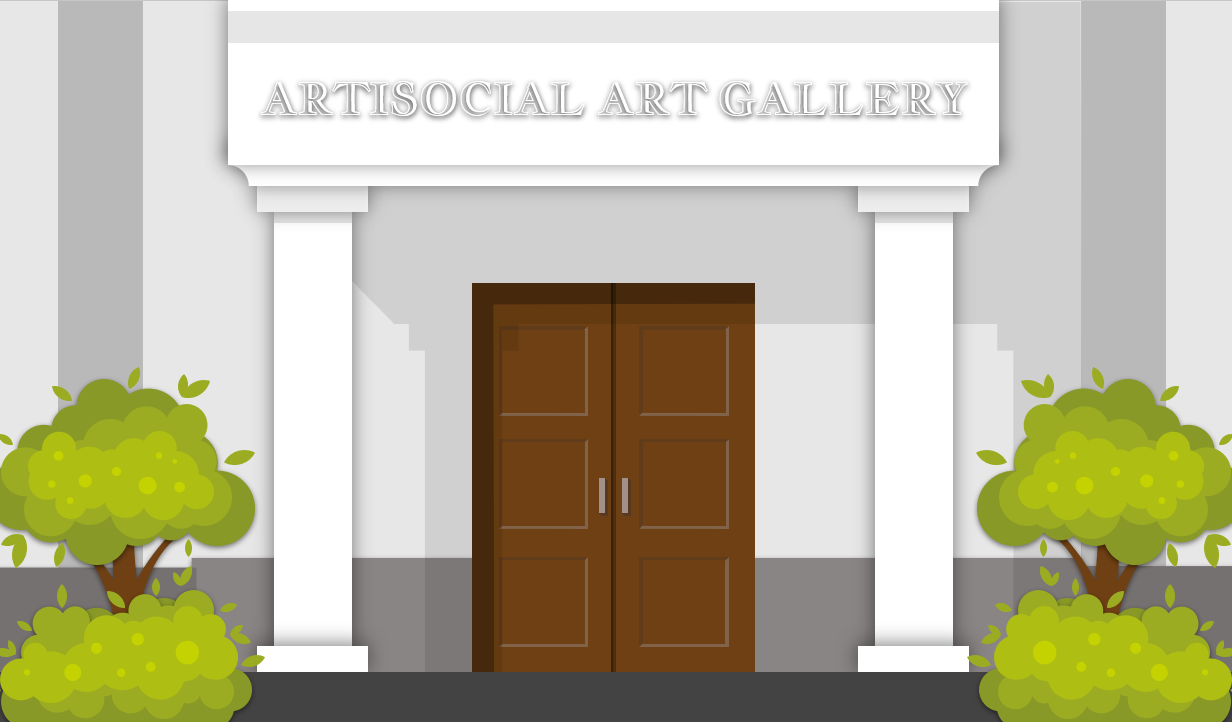
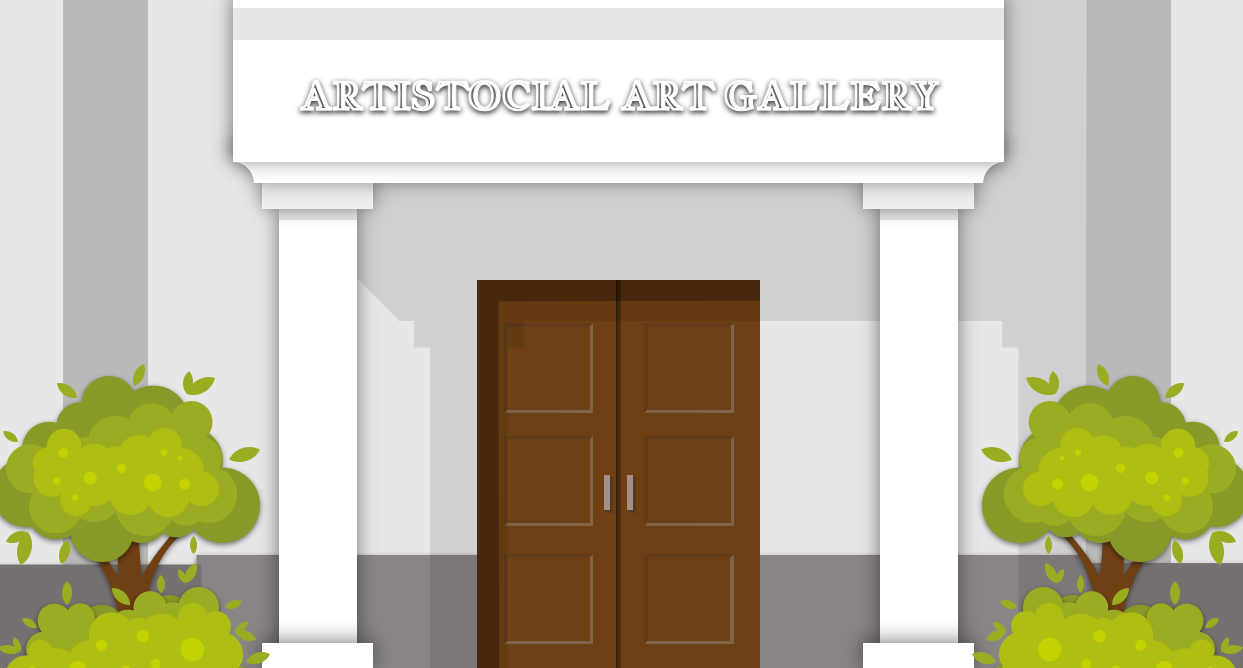
artgallery bug fixed

diff --git a/websrc/artgallery/art gallery.css b/websrc/artgallery/art gallery.css
@@ -8,90 +8,58 @@
 }
 
 /*front page*/
-.frontdoor-backg {
+.frontpage-backg {
+    min-height: 100%;
     background: url("frontdoor.PNG");
     background-size: cover;
+    background-repeat: no-repeat;
+    background-position: center center;
+}
+.doordiv {
+    display: flex;
 }
 .door {
-    position: absolute; top: 45%; left: 38%;
-    height: 395px;
-    width: 285px
+    justify-content: center;
+    display: block;
+    margin-left: 37%;
+    margin-top: 17%;
+    margin-right: auto;
+    width: auto;
+    height: 67%;
+    position: absolute;
+    opacity: 1;
 }
+.door:hover {
+    animation: shake 0.5s infinite;
+}
+@keyframes shake {
+    0% { transform: translate(1px, 1px) rotate(0deg); }
+    10% { transform: translate(-1px, -2px) rotate(-1deg); }
+    20% { transform: translate(-3px, 0px) rotate(1deg); }
+    30% { transform: translate(3px, 2px) rotate(0deg); }
+    40% { transform: translate(1px, -1px) rotate(1deg); }
+    50% { transform: translate(-1px, 2px) rotate(-1deg); }
+    60% { transform: translate(-3px, 1px) rotate(0deg); }
+    70% { transform: translate(3px, 1px) rotate(-1deg); }
+    80% { transform: translate(-1px, -1px) rotate(1deg); }
+    90% { transform: translate(1px, 2px) rotate(0deg); }
+    100% { transform: translate(1px, -2px) rotate(-1deg); }
+  }
 
 /*instructions page*/
 .instructions-backg {
+    min-height: 100%;
     background: url("painter.PNG");
-    background-size: cover; padding: 40px;
+    background-size: cover;
+    background-repeat: no-repeat;
+    background-position: center center;
 }
 
-
-/*@-webkit-keyframes typing { from { width: 0; } }
-@-webkit-keyframes blink-caret { 50% { border-color: transparent; } }
-
-.instruction-text1 { 
-    position: absolute; top: 18%; left: 37%;
-    font-family: 'Charmonman', cursive;
-    font-size: 1.4em;
-	border-right: .1em solid black; 
-	width: 500px;
-	margin: 2em 1em;
-	white-space: nowrap;
-	overflow: hidden;
-	-webkit-animation: typing 3s steps(21, end),
-	           blink-caret .5s step-end infinite alternate;
-}
-.instruction-text2 { 
-    position: absolute; top: 18%; left: 37%;
-    font-family: 'Charmonman', cursive;
-    font-size: 1.4em;
-	border-right: .1em solid black; 
-	width: 500px;
-	margin: 2em 1em;
-	white-space: nowrap;
-	overflow: hidden;
-	-webkit-animation: typing 3s steps(21, end),
-	           blink-caret .5s step-end infinite alternate;
-}
-.instruction-text3 { 
-    position: absolute; top: 18%; left: 37%;
-    font-family: 'Charmonman', cursive;
-    font-size: 1.4em;
-	border-right: .1em solid black; 
-	width: 500px;
-	margin: 2em 1em;
-	white-space: nowrap;
-	overflow: hidden;
-	-webkit-animation: typing 3s steps(21, end),
-	           blink-caret .5s step-end infinite alternate;
-}
-.instruction-text4 { 
-    position: absolute; top: 18%; left: 37%;
-    font-family: 'Charmonman', cursive;
-    font-size: 1.4em;
-	border-right: .1em solid black; 
-	width: 500px;
-	margin: 2em 1em;
-	white-space: nowrap;
-	overflow: hidden;
-	-webkit-animation: typing 3s steps(21, end),
-	           blink-caret .5s step-end infinite alternate;
-}
-.instruction-text5 { 
-    position: absolute; top: 18%; left: 37%;
-    font-family: 'Charmonman', cursive;
-    font-size: 1.4em;
-	border-right: .1em solid black; 
-	width: 500px;
-	margin: 2em 1em;
-	white-space: nowrap;
-	overflow: hidden;
-	-webkit-animation: typing 3s steps(21, end),
-	           blink-caret .5s step-end infinite alternate;
-}*/
 .instructions-text {
-    position: absolute; top: 18%; left: 37%;
+    margin-left: 35%;
+    margin-top: 11%;
     font-family: 'Charmonman', cursive;
-    font-size: 1.4em;
+    font-size: 1.75vw;
 }
 
 .arrowfins {
@@ -124,8 +92,8 @@ header .monalisawrap:after {
     margin-top: 80%;
     font-size: 2em;
     content: 'Mona Lisa';
-    white-space:nowrap;
-    overflow:hidden;
+    white-space: nowrap;
+    overflow: hidden;
     flex-grow:0;
     max-width:0px;
     transition: 1s cubic-bezier(.4,0,.2,1);

diff --git a/websrc/artgallery/fronpage.html b/websrc/artgallery/fronpage.html
@@ -1,5 +1,5 @@
 <!DOCTYPE html>
-<html class="frontdoor-backg" lang="en">
+<html class="frontpage-backg" lang="en">
 <head>
 	<meta charset="utf-8">
     <meta name="viewport" content="width=device-width, initial-scale=1">
@@ -9,7 +9,8 @@
 </head>
 
 
-<a href="instructions.html" target="_blank">
-    <img class="door" src="door.PNG"/>
-</a>
-
+<div class="doordiv">
+    <a href="instructions.html" target="_blank">
+        <img class="door" src="door.PNG"/>
+    </a>
+</div>

diff --git a/websrc/artgallery/art gallery.js b/websrc/artgallery/art gallery.js
@@ -1,3 +1,7 @@
+// set an index for each artwork page and go to a different indexed artwork each time
+
+
+
 //Buy button that lets user buy a piece of artwork
     var money = 10000;
     var buyA = 10000;

diff --git a/websrc/artgallery/artwork.php b/websrc/artgallery/artwork.php
@@ -1,0 +1,84 @@
+
+<?php
+require_once(__DIR__."/../../be/controller/artsyController.php");
+
+session_start();
+
+$artsy = new Artsy();
+$l = $artsy->getLastArtwork();
+
+$galleryArtworks = array();
+array_push($galleryArtworks, $l);
+array_push($galleryArtworks, $l);
+array_push($galleryArtworks, $l);
+
+$current_index = 0;
+if(isset($_GET["index"])){
+    $current_index = $_GET["index"];
+}
+if($current_index<0){
+    $current_index = 0;
+}
+if($current_index>count($galleryArtworks)){
+    $current_index = count($galleryArtworks)-1;
+}
+$previewIndex = $current_index-1<0?0:$current_index-1;
+$nextIndex = $current_index+1<count($galleryArtworks)?$current_index+1:count($galleryArtworks)-1;
+$lastArtwork = $galleryArtworks[$current_index];
+
+$artsy->getGalleryArtworks();
+
+?>
+
+<!DOCTYPE html>
+<html class="monalisa-backg" lang="en">
+<head>
+	<meta charset="utf-8">
+    <meta name="viewport" content="width=device-width, initial-scale=1">
+	<title>Art Gallery | Artwork</title>
+    <link rel="stylesheet" href="art gallery.css">
+    <script src="art gallery.js"></script>
+    <link rel="preconnect" href="https://fonts.googleapis.com">
+    <link rel="preconnect" href="https://fonts.gstatic.com" crossorigin>
+    <link href="https://fonts.googleapis.com/css2?family=Inter&display=swap" rel="stylesheet">
+</head>
+
+
+<!--painting-->
+<header>
+    <div class="monalisawrap">
+      <div href="monalisainfo.html" class="monalisaimg" target="_blank">
+        <?php?>
+        <img onclick="location.href = 'artdescription.php';" src="<?php echo $lastArtwork->thumbnail?>" alt="Art Piece">
+        <?php ?>
+      </div>
+    </div>
+</header>
+
+
+<!--previous and next button-->
+<a href="fronpage.html" target="_self">
+    <img class="homeicon" src="homeicon.png"/>
+</a>
+
+<a href="artwork.php?index=<?php echo $previewIndex;?>" target="_self">
+    <img class="arrowb" src="arrow.png"/>
+</a>
+
+<a href="artwork.php?index=<?php echo $nextIndex;?>" target="_self">
+    <img class="arrowf" src="arrow.png"/>
+</a>
+
+<!--buy button-->
+<div class = "purchase">
+    <p id="money"></p>
+    <p id="cost"></p>
+    <script>
+    // update the values
+    document.getElementById("money").innerHTML = "MONEY: $" + money;
+    document.getElementById("cost").innerHTML = "COST: $" + buyA;
+
+    //localStorage.setItem("money", "MONEY: $")
+    </script>
+    <input class = "purchasebutton" id="Purchase" type="button" value="Purchase" onclick="BuyA();"/>
+</div>

diff --git a/websrc/artgallery/artdescription.php b/websrc/artgallery/artdescription.php
@@ -1,0 +1,59 @@
+
+<?php
+require_once(__DIR__."/../../be/controller/artsyController.php");
+
+session_start();
+
+$artsy = new Artsy();
+$lastArtwork = $artsy->getLastArtwork();
+$category = $lastArtwork->title;
+$category = $lastArtwork->category;
+$category = $lastArtwork->medium;
+?>
+
+<!DOCTYPE html>
+<html class="monalisainfo-backg" lang="en">
+<head>
+	<meta charset="utf-8">
+    <meta name="viewport" content="width=device-width, initial-scale=1">
+	<title>Art Gallery | Description</title>
+    <link rel="stylesheet" href="art gallery.css">
+    <script src="art gallery.js"></script>
+    <link rel="preconnect" href="https://fonts.googleapis.com">
+    <link rel="preconnect" href="https://fonts.gstatic.com" crossorigin>
+    <link href="https://fonts.googleapis.com/css2?family=Inter&display=swap" rel="stylesheet">
+</head>
+
+<!--navbar-->
+<div class="infopagehead">
+    <?php?>
+    <h1><?php echo $lastArtwork->title; ?></h1>
+    <?php ?>
+    <nav class="navbar">
+        <a href="fronpage.html" target="">
+            <img class="homeiconinfo" src="homeicon.png"/>
+        </a>
+        <a href="artwork.php" target="">
+            <img class="arrowbinfo" src="arrow.png"/>
+        </a>
+    </nav>
+</div>
+
+<!--image-->
+<div class="monalisainfoimg">
+    <img src="<?php echo $lastArtwork->thumbnail?>" alt="Art Piece">
+</div>
+
+<!--description text-->
+<div class="mldescription">
+    <h3>CATEGORY</h3>
+    <p><?php echo $lastArtwork->category; ?></p><br>
+    <h3>MEDIUM</h3>
+    <p><?php echo $lastArtwork->medium; ?></p><br>
+    <h3>COLLECTING INSTITUTION</h3>
+    <p><?php echo $lastArtwork->collecting_institution; ?></p>
+</div>
+
+<div> 
+    <img src="backimg.jpg" class="backimg">
+</div>
